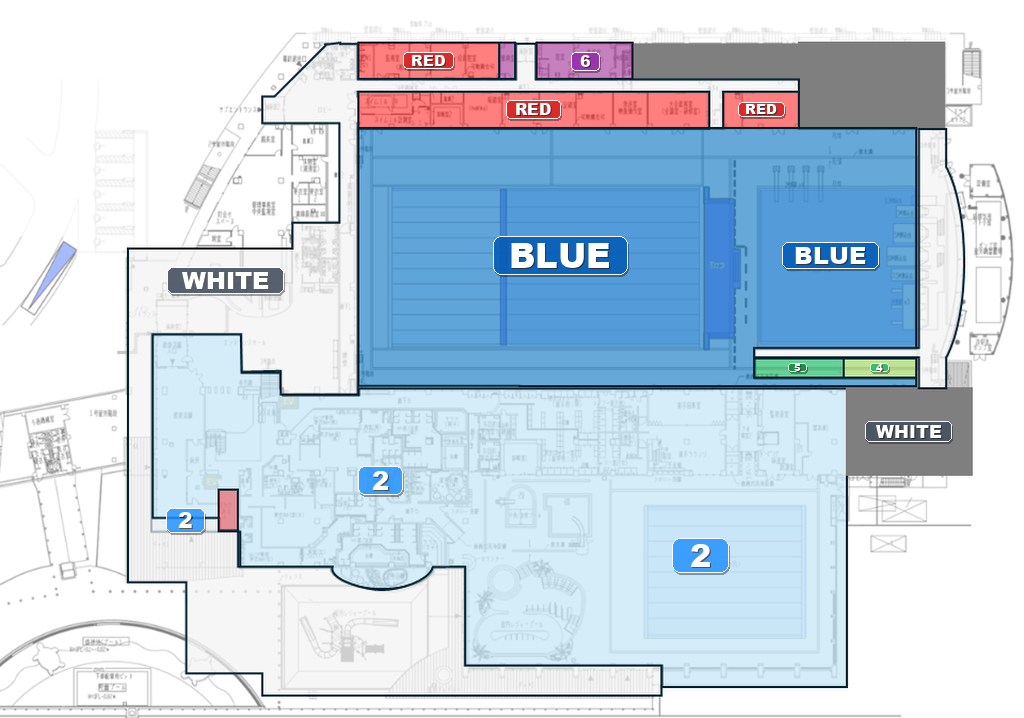
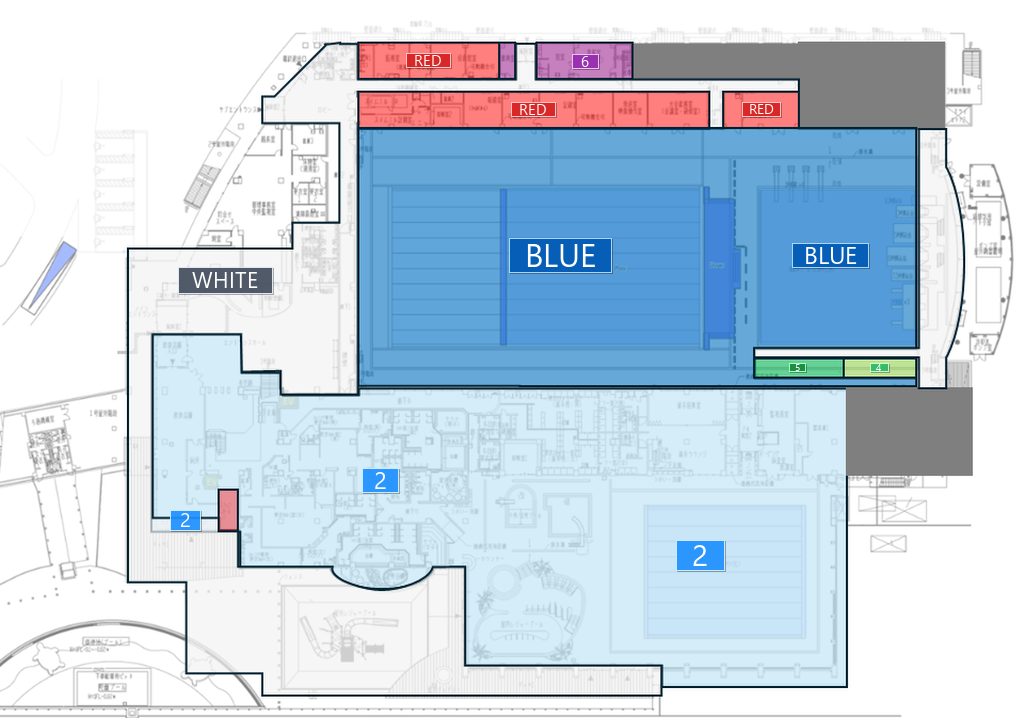
Add files via upload

diff --git a/index.html b/index.html
@@ -429,7 +429,8 @@
         border-radius: 10px !important;
         box-shadow: 0 4px 12px rgba(0, 0, 0, 0.5) !important;
       }
-      .zone-legend-bar {
+      .editor-badge { display: none !important; }
+    .zone-legend-bar {
         top: 6px !important;
         left: 6px !important;
         right: 6px !important;
@@ -505,6 +506,7 @@
       border-color: var(--accent-zone, #af52de);
     }
 
+    .editor-badge { display: none !important; }
     .zone-legend-bar {
       position: absolute;
       top: 8px;
@@ -527,7 +529,8 @@
     }
     .zone-legend-bar::-webkit-scrollbar { display: none; }
 
-    #layer-zone:checked ~ .map-viewport .zone-legend-bar {
+    #layer-zone:checked ~ .map-viewport .editor-badge { display: none !important; }
+    .zone-legend-bar {
       display: flex;
     }
 
@@ -654,7 +657,6 @@
 
   <!-- マップ表示エリア (Map Viewport with Pan/Zoom) -->
   <div class="map-viewport">
-    <div class="editor-badge">📍 ピン編集モード ON</div>
 
     <!-- ゾーン＆シート色分け凡例バー (Zone & Seat Legend) -->
     <div id="zone-legend-bar" class="zone-legend-bar">
@@ -664,28 +666,32 @@
           🗾 ゾーン:
         </span>
         <div class="zone-legend-items">
-          <span class="legend-chip" data-zone="WHITE" style="border-color:#94a3b8; background:rgba(148,163,184,0.22); cursor:pointer;" title="WHITE (薄いグレーの枠): 駐車場・外周・西エントランス"><span class="chip-color-box" style="background:#94a3b8;"></span><b>WHITE</b></span>
-          <span class="legend-chip" data-zone="RED" style="border-color:#ef4444; background:rgba(239,68,68,0.22); cursor:pointer;" title="RED (赤い枠): 競技専用・セキュリティ"><span class="chip-color-box" style="background:#ef4444;"></span><b>RED</b></span>
-          <span class="legend-chip" data-zone="2" style="border-color:#38bdf8; background:rgba(56,189,248,0.22); cursor:pointer;" title="2 (薄いブルーの枠): 選手控室・諸室・運営"><span class="chip-color-box" style="background:#38bdf8;"></span><b>2</b></span>
-          <span class="legend-chip" data-zone="BLUE" style="border-color:#0284c7; background:rgba(2,132,199,0.30); cursor:pointer;" title="BLUE (濃いブルーの枠): メインプール・ダイビング・FOP"><span class="chip-color-box" style="background:#0284c7;"></span><b>BLUE</b></span>
-          <span class="legend-chip" data-zone="4" style="border-color:#86efac; background:rgba(134,239,172,0.22); cursor:pointer;" title="4 (薄い緑の枠): 報道・プレス"><span class="chip-color-box" style="background:#86efac;"></span><b>4</b></span>
-          <span class="legend-chip" data-zone="5" style="border-color:#22c55e; background:rgba(34,197,94,0.26); cursor:pointer;" title="5 (濃い緑の枠): 放送・中継"><span class="chip-color-box" style="background:#22c55e;"></span><b>5</b></span>
-          <span class="legend-chip" data-zone="6" style="border-color:#a855f7; background:rgba(168,85,247,0.24); cursor:pointer;" title="6 (紫の枠): 大会要人・プロトコル"><span class="chip-color-box" style="background:#a855f7;"></span><b>6</b></span>
+          <span class="legend-chip" data-zone="WHITE" style="border-color:#94a3b8; background:rgba(148,163,184,0.22); cursor:pointer;" title="WHITE (薄いグレーの枠): 駐車場・外周・西エントランス (※濃いグレーは利用しないスペース)"><span class="chip-color-box" style="background:#94a3b8; border:1px solid #94a3b8;"></span><b>WHITE</b></span>
+          <span class="legend-chip" data-zone="RED" style="border-color:#ef4444; background:rgba(239,68,68,0.22); cursor:pointer;" title="RED (赤い枠): 競技専用・セキュリティ"><span class="chip-color-box" style="background:#ef4444; border:1px solid #ef4444;"></span><b>RED</b></span>
+          <span class="legend-chip" data-zone="2" style="border-color:#38bdf8; background:rgba(56,189,248,0.22); cursor:pointer;" title="2 (薄いブルーの枠): 選手控室・諸室・運営 (Aシートと連動)"><span class="chip-color-box" style="background:#38bdf8; border:1px solid #38bdf8;"></span><b>2</b></span>
+          <span class="legend-chip" data-zone="BLUE" style="border-color:#0284c7; background:rgba(2,132,199,0.30); cursor:pointer;" title="BLUE (濃いブルーの枠): メインプール・ダイビング・FOP"><span class="chip-color-box" style="background:#0284c7; border:1px solid #0284c7;"></span><b>BLUE</b></span>
+          <span class="legend-chip" data-zone="4" style="border-color:#86efac; background:rgba(134,239,172,0.22); cursor:pointer;" title="4 (薄い緑の枠): 報道・プレス (Pシートと連動)"><span class="chip-color-box" style="background:#86efac; border:1px solid #86efac;"></span><b>4</b></span>
+          <span class="legend-chip" data-zone="5" style="border-color:#22c55e; background:rgba(34,197,94,0.26); cursor:pointer;" title="5 (濃い緑の枠): 放送・中継 (Bシートと連動)"><span class="chip-color-box" style="background:#22c55e; border:1px solid #22c55e;"></span><b>5</b></span>
+          <span class="legend-chip" data-zone="6" style="border-color:#a855f7; background:rgba(168,85,247,0.24); cursor:pointer;" title="6 (紫の枠): 大会要人・プロトコル (Vipシートと連動)"><span class="chip-color-box" style="background:#a855f7; border:1px solid #a855f7;"></span><b>6</b></span>
         </div>
       </div>
 
       <div class="legend-divider"></div>
 
-      <!-- シート区分 (Seating Legend) -->
+      <!-- シート区分 (Seating Legend: ゾーン色と1対1完全連動) -->
       <div class="legend-group">
         <span class="legend-group-title" style="color:#fbbf24;">
           💺 シート:
         </span>
         <div class="zone-legend-items">
-          <span class="legend-chip legend-chip-seat" data-seat="VIP" style="border-color:#eab308; background:rgba(234,179,8,0.25); cursor:pointer;" title="Vipシート: VIP・OCAファミリー専用席"><span class="chip-color-box" style="background:#eab308;"></span><b>Vipシート</b></span>
-          <span class="legend-chip legend-chip-seat" data-seat="P" style="border-color:#a855f7; background:rgba(168,85,247,0.25); cursor:pointer;" title="Pシート: プロトコル・大会役員専用席"><span class="chip-color-box" style="background:#a855f7;"></span><b>Pシート</b></span>
-          <span class="legend-chip legend-chip-seat" data-seat="B" style="border-color:#10b981; background:rgba(16,185,129,0.25); cursor:pointer;" title="Bシート: 放送・中継メディア席 (Broadcast)"><span class="chip-color-box" style="background:#10b981;"></span><b>Bシート</b></span>
-          <span class="legend-chip legend-chip-seat" data-seat="A" style="border-color:#f97316; background:rgba(249,115,22,0.25); cursor:pointer;" title="Aシート: 選手席・カテゴリーA指定席"><span class="chip-color-box" style="background:#f97316;"></span><b>Aシート</b></span>
+          <!-- 6 ↔ Vipシート (紫 #a855f7) -->
+          <span class="legend-chip legend-chip-seat" data-seat="VIP" style="border-color:#a855f7; background:rgba(168,85,247,0.25); cursor:pointer;" title="Vipシート: VIP・OCAファミリー専用席 (Zone 6 連動)"><span class="chip-color-box" style="background:#a855f7; border:1px solid #a855f7;"></span><b>Vipシート</b></span>
+          <!-- 4 ↔ Pシート (薄緑 #86efac) -->
+          <span class="legend-chip legend-chip-seat" data-seat="P" style="border-color:#86efac; background:rgba(134,239,172,0.25); cursor:pointer;" title="Pシート: Press報道関係者専用席 (Zone 4 連動)"><span class="chip-color-box" style="background:#86efac; border:1px solid #86efac;"></span><b>Pシート</b></span>
+          <!-- 5 ↔ Bシート (濃緑 #22c55e) -->
+          <span class="legend-chip legend-chip-seat" data-seat="B" style="border-color:#22c55e; background:rgba(34,197,94,0.25); cursor:pointer;" title="Bシート: 放送中継専用席 (Zone 5 連動)"><span class="chip-color-box" style="background:#22c55e; border:1px solid #22c55e;"></span><b>Bシート</b></span>
+          <!-- 2 ↔ Aシート (薄青 #38bdf8) -->
+          <span class="legend-chip legend-chip-seat" data-seat="A" style="border-color:#38bdf8; background:rgba(56,189,248,0.25); cursor:pointer;" title="Aシート: 選手専用席 (Zone 2 連動)"><span class="chip-color-box" style="background:#38bdf8; border:1px solid #38bdf8;"></span><b>Aシート</b></span>
         </div>
       </div>
     </div>
@@ -708,7 +714,7 @@
       <!-- 1階マップ (通常図面 ＋ ゾーン色分け図面オーバーレイ) -->
       <div id="map-1f" class="floor-map">
         <img src="assets/floor1.png" alt="1F Floor Map" class="bg-svg bg-normal">
-        <img src="assets/floor1-zone.png?v=25.0" alt="1F Zone Map" class="bg-svg bg-zone">
+        <img src="assets/floor1-zone.png?v=26.0" alt="1F Zone Map" class="bg-svg bg-zone">
       </div>
 
       <!-- 2階マップ -->
@@ -916,8 +922,8 @@
   </div>
 
   <!-- スクリプト読み込み (重要: data.js -> map-engine.js -> app.js) -->
-  <script src="js/data.js?v=25.0"></script>
-  <script src="js/map-engine.js?v=25.0"></script>
-  <script src="js/app.js?v=25.0"></script>
+  <script src="js/data.js?v=26.0"></script>
+  <script src="js/map-engine.js?v=26.0"></script>
+  <script src="js/app.js?v=26.0"></script>
 </body>
 </html>

diff --git a/js/app.js b/js/app.js
@@ -54,7 +54,7 @@ document.addEventListener('DOMContentLoaded', () => {
           const panel = document.getElementById('info-panel');
           if (panel) {
             const zoneNames = {
-              'WHITE': 'WHITE (薄灰) - 駐車場・外周・西エントランス',
+              'WHITE': 'WHITE (薄灰) - 西エントランス・外周 (※濃いグレーは利用しないSpace)',
               'RED': 'RED (赤) - 競技専用・セキュリティエリア',
               '2': 'Zone 2 (薄青) - 選手諸室・ウォーミングアップ・運営',
               'BLUE': 'BLUE (濃青) - メインプール・ダイビング・FOP',
@@ -77,28 +77,32 @@ document.addEventListener('DOMContentLoaded', () => {
         } else if (seatKey) {
           const seatMeta = {
             'VIP': {
-              name: 'Vipシート (VIP / OCA Family)',
-              color: '#eab308',
+              name: 'Vipシート (Zone 6 連動・VIP/OCA席)',
+              color: '#a855f7',
+              zone: '6',
               dept: ['OFS', 'CER'],
-              desc: 'VIP・OCAファミリー・貴賓関係者専用の最上級スタンド席です。メインスタンド中央最良視界位置に配置されます。'
+              desc: 'Zone 6（大会要人・プロトコル）関係者が着席するVIP・OCAファミリー専用席です。'
             },
             'P': {
-              name: 'Pシート (Protocol / 大会役員席)',
-              color: '#a855f7',
-              dept: ['CER', 'OFS'],
-              desc: 'プロトコル・各競技連盟（IF/NF）会長・理事および大会役員専用の指定席エリアです。'
+              name: 'Pシート (Zone 4 連動・Press記者席)',
+              color: '#86efac',
+              zone: '4',
+              dept: ['PRS', 'BRS'],
+              desc: 'Zone 4（報道・プレス）関係者のみが着席できる専用記者席（Press席）です。'
             },
             'B': {
-              name: 'Bシート (Broadcast / 放送中継席)',
-              color: '#10b981',
+              name: 'Bシート (Zone 5 連動・放送中継席)',
+              color: '#22c55e',
+              zone: '5',
               dept: ['BRS', 'PRS'],
-              desc: 'ホストブロードキャスター（HB）・権利保有放送局（RHB）・実況解説コメンタリー専用席エリアです。'
+              desc: 'Zone 5（放送・中継・HB）関係者が着席する実況解説コメンタリー専用席です。'
             },
             'A': {
-              name: 'Aシート (Athlete / 選手席・カテゴリーA)',
-              color: '#f97316',
+              name: 'Aシート (Zone 2 連動・選手席)',
+              color: '#38bdf8',
+              zone: '2',
               dept: ['SPT', 'EVS'],
-              desc: '出場選手・チーム役員同伴者専用席（SDA）、およびカテゴリーA観戦スタンド席エリアです。'
+              desc: 'Zone 2（選手控室・諸室）の出場選手およびチーム役員が着席する選手専用席（SDA席）です。'
             }
           };
 
@@ -107,9 +111,11 @@ document.addEventListener('DOMContentLoaded', () => {
           document.querySelectorAll('.room-pin').forEach(pin => {
             const room = VENUE_DATA.rooms.find(r => r.id === pin.dataset.id);
             if (room) {
-              const deptMatch = curSeat.dept.includes(room.dept);
+              const desc = room.desc || '';
+              const zoneMatch = curSeat.zone && (desc.includes('Zone: ' + curSeat.zone) || desc.includes('Zone: ' + curSeat.zone + ',') || desc.includes('Zone: ' + curSeat.zone + '+'));
+              const deptMatch = curSeat.dept && curSeat.dept.includes(room.dept);
               const nameMatch = (room.name || '').includes(seatKey) || (room.desc || '').includes(seatKey);
-              const match = deptMatch || nameMatch;
+              const match = zoneMatch || deptMatch || nameMatch;
               pin.style.opacity = match ? '1' : '0.15';
               if (match) count++;
             }
@@ -121,7 +127,7 @@ document.addEventListener('DOMContentLoaded', () => {
               <div class="detail-card">
                 <div class="detail-header">
                   <div class="detail-title">💺 シート区分: <b>${curSeat.name}</b></div>
-                  <span class="badge" style="background:${curSeat.color}; color:#000; font-weight:800;">関連諸室: ${count}室</span>
+                  <span class="badge" style="background:${curSeat.color}; color:#0f172a; font-weight:800; border:none; opacity:1;">Zone ${curSeat.zone} 連動: ${count}室</span>
                 </div>
                 <div style="font-size:12px; color:var(--text-primary); margin-top:4px; line-height:1.4;">
                   ${curSeat.desc}

diff --git a/css/styles.css b/css/styles.css
@@ -421,7 +421,8 @@
         border-radius: 10px !important;
         box-shadow: 0 4px 12px rgba(0, 0, 0, 0.5) !important;
       }
-      .zone-legend-bar {
+      .editor-badge { display: none !important; }
+    .zone-legend-bar {
         top: 6px !important;
         left: 6px !important;
         right: 6px !important;
@@ -497,6 +498,7 @@
       border-color: var(--accent-zone, #af52de);
     }
 
+    .editor-badge { display: none !important; }
     .zone-legend-bar {
       position: absolute;
       top: 8px;
@@ -519,7 +521,8 @@
     }
     .zone-legend-bar::-webkit-scrollbar { display: none; }
 
-    #layer-zone:checked ~ .map-viewport .zone-legend-bar {
+    #layer-zone:checked ~ .map-viewport .editor-badge { display: none !important; }
+    .zone-legend-bar {
       display: flex;
     }
 
